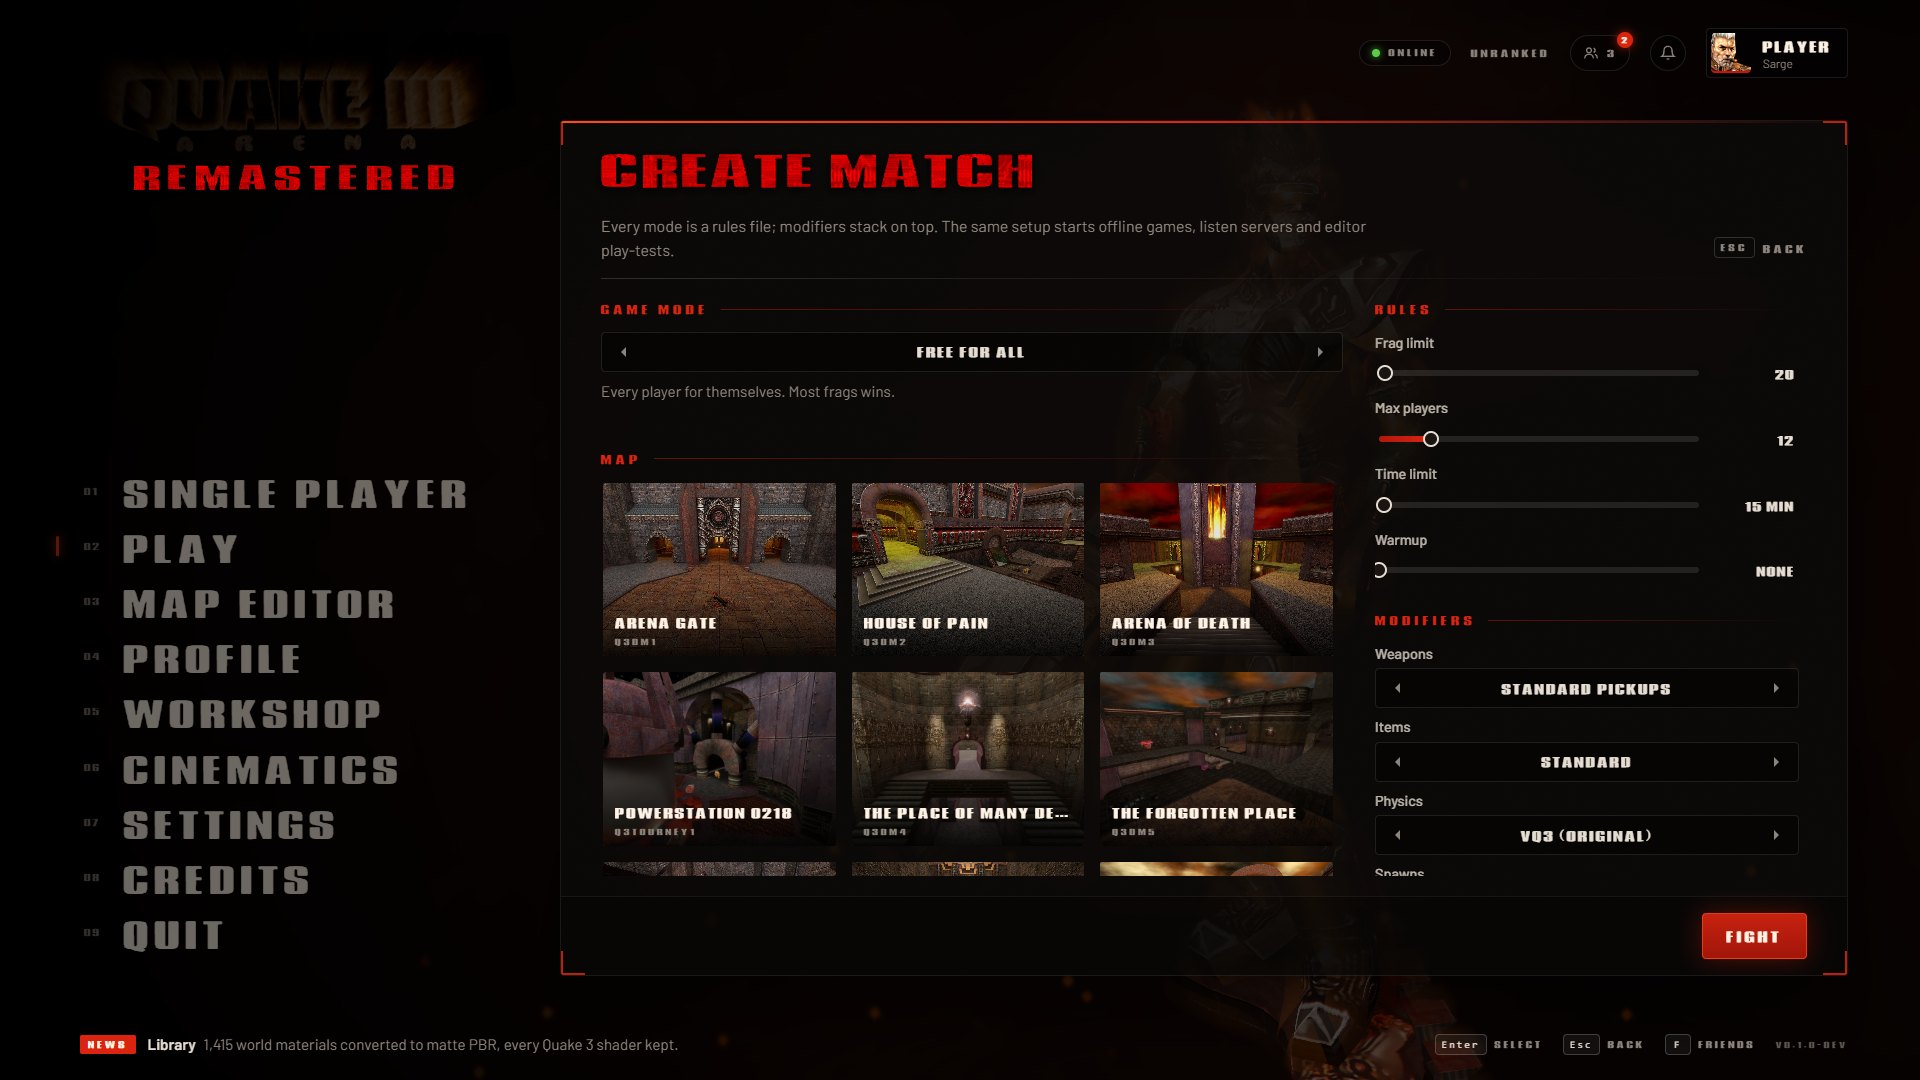
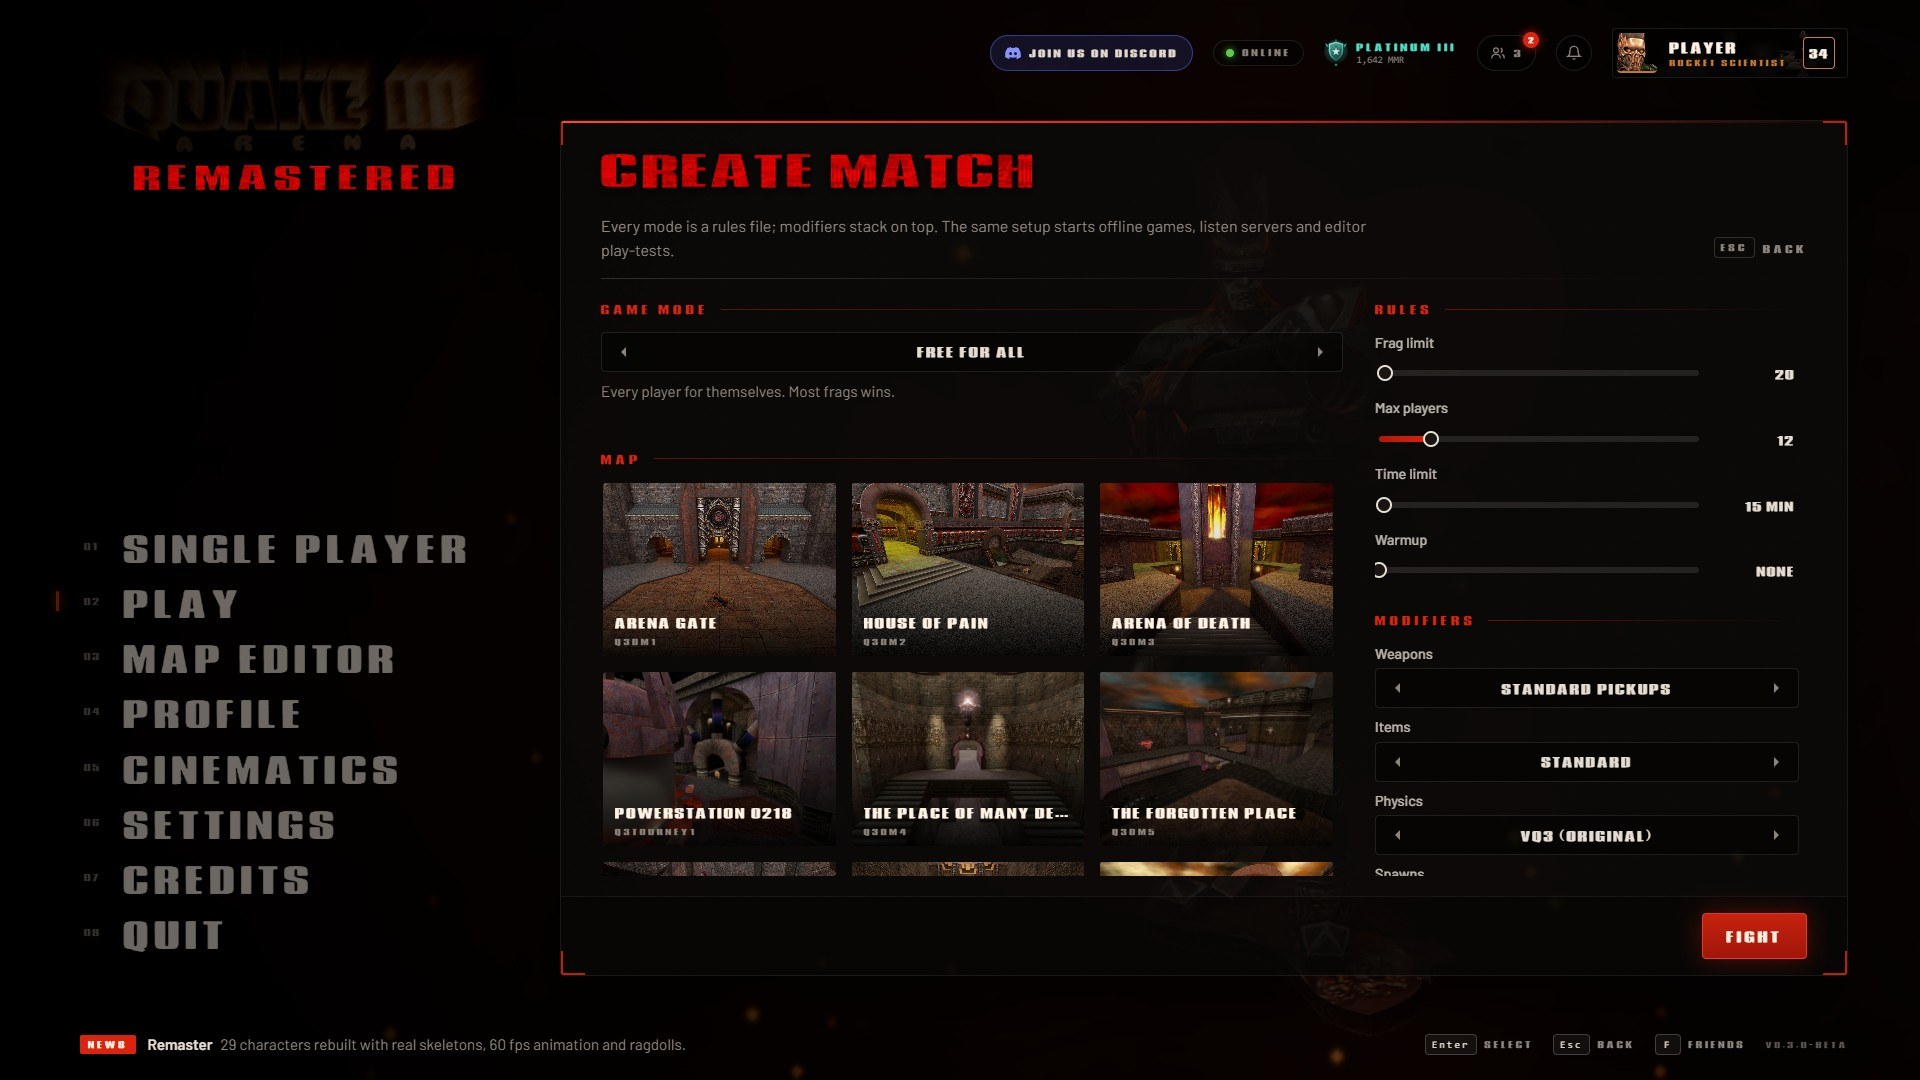
README: new menu screenshots and the map editor's reshape handles
The five menu shots were from before the Discord button, the player card
editor and ranked badge, Replays and Spectate; retaken the same way (the
menu's 3D layer from Godot, the page from headless Chrome over a transparent
background, laid together). The map editor's room shot now shows the select
tool's corner and face handles.

diff --git a/README.md b/README.md
@@ -77,7 +77,7 @@ Most remakes copy the original from memory. This one runs id Software's own game
   | | |
   |---|---|
   | ![Map editor: The Campgrounds](docs/screenshots/editor-campgrounds.jpg) | ![Map editor: building a room](docs/screenshots/editor-objects.jpg) |
-  | **The Campgrounds** (q3dm6) opened from the original game, ready to edit | **Building a room:** every brush, group and spawn listed, the selected block's texture in the inspector |
+  | **The Campgrounds** (q3dm6) opened from the original game, ready to edit | **Building a room:** every brush, group and spawn listed; drag the selected block's corners and face handles to reshape it |
 - **Replays:**
   - Every match is recorded automatically, all of it: every player, so you can watch from anyone's eyes, from behind them, circling them, with a free camera that flies anywhere, or through the cinematic camera.
   - A replay viewer: pause, slow motion and fast forward, frame by frame, jump to the next or last frag, a timeline marked with your frags, deaths and medals, name tags and outlines.
